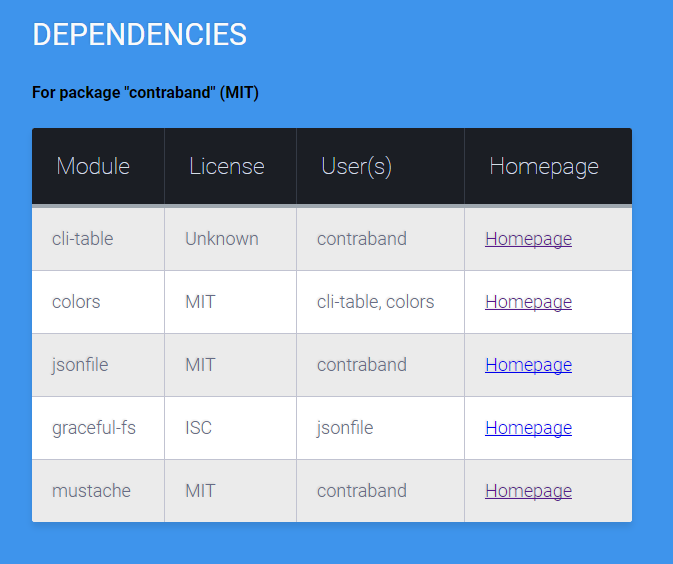
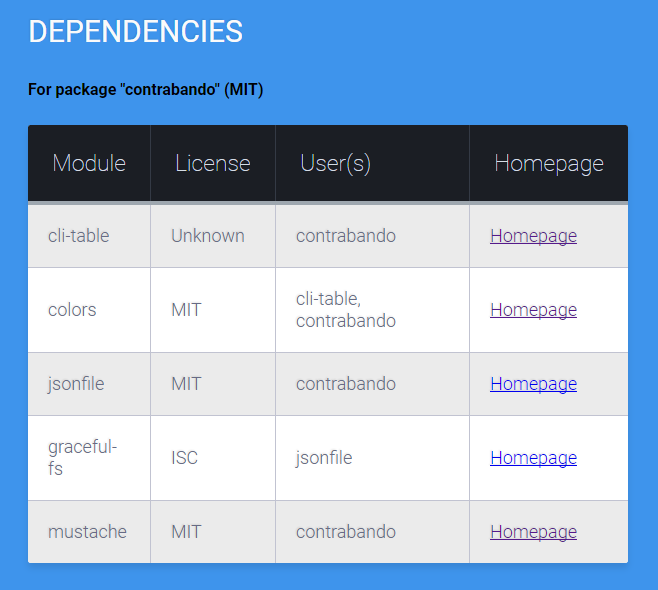
bugfix

diff --git a/licenses.html b/licenses.html
@@ -1,0 +1,175 @@
+<html lang="en">
+   <head>
+      <meta charset="utf-8" />
+      <title>Licenses</title>
+      <meta name="viewport" content="initial-scale=1.0; maximum-scale=1.0; width=device-width;">
+      <style>
+         @import url(https://fonts.googleapis.com/css?family=Roboto:400,500,700,300,100);
+         body {
+         background-color: #3e94ec;
+         font-family: "Roboto", helvetica, arial, sans-serif;
+         font-size: 16px;
+         font-weight: 400;
+         text-rendering: optimizeLegibility;
+         }
+         div.table-title {
+         display: block;
+         margin: auto;
+         max-width: 600px;
+         padding:5px;
+         width: 100%;
+         }
+         .table-title h3 {
+         color: #fafafa;
+         font-size: 30px;
+         font-weight: 400;
+         font-style:normal;
+         font-family: "Roboto", helvetica, arial, sans-serif;
+         text-shadow: -1px -1px 1px rgba(0, 0, 0, 0.1);
+         text-transform:uppercase;
+         }
+         /*** Table Styles **/
+         .table-fill {
+         background: white;
+         border-radius:3px;
+         border-collapse: collapse;
+         height: auto;
+         margin: auto;
+         max-width: 600px;
+         padding:5px;
+         width: 100%;
+         box-shadow: 0 5px 10px rgba(0, 0, 0, 0.1);
+         animation: float 5s infinite;
+         }
+         th {
+         color:#D5DDE5;;
+         background:#1b1e24;
+         border-bottom:4px solid #9ea7af;
+         border-right: 1px solid #343a45;
+         font-size:23px;
+         font-weight: 100;
+         padding:24px;
+         text-align:left;
+         text-shadow: 0 1px 1px rgba(0, 0, 0, 0.1);
+         vertical-align:middle;
+         }
+         th:first-child {
+         border-top-left-radius:3px;
+         }
+         th:last-child {
+         border-top-right-radius:3px;
+         border-right:none;
+         }
+         tr {
+         border-top: 1px solid #C1C3D1;
+         border-bottom-: 1px solid #C1C3D1;
+         color:#666B85;
+         font-size:16px;
+         font-weight:normal;
+         text-shadow: 0 1px 1px rgba(256, 256, 256, 0.1);
+         }
+         tr:hover td {
+         background:#4E5066;
+         color:#FFFFFF;
+         border-top: 1px solid #22262e;
+         border-bottom: 1px solid #22262e;
+         }
+         tr:first-child {
+         border-top:none;
+         }
+         tr:last-child {
+         border-bottom:none;
+         }
+         tr:nth-child(odd) td {
+         background:#EBEBEB;
+         }
+         tr:nth-child(odd):hover td {
+         background:#4E5066;
+         }
+         tr:last-child td:first-child {
+         border-bottom-left-radius:3px;
+         }
+         tr:last-child td:last-child {
+         border-bottom-right-radius:3px;
+         }
+         td {
+         background:#FFFFFF;
+         padding:20px;
+         text-align:left;
+         vertical-align:middle;
+         font-weight:300;
+         font-size:18px;
+         text-shadow: -1px -1px 1px rgba(0, 0, 0, 0.1);
+         border-right: 1px solid #C1C3D1;
+         }
+         td:last-child {
+         border-right: 0px;
+         }
+         th.text-left {
+         text-align: left;
+         }
+         th.text-center {
+         text-align: center;
+         }
+         th.text-right {
+         text-align: right;
+         }
+         td.text-left {
+         text-align: left;
+         }
+         td.text-center {
+         text-align: center;
+         }
+         td.text-right {
+         text-align: right;
+         }
+      </style>
+   </head>
+   <body>
+      <div class="table-title">
+         <h3>Dependencies</h3>
+         <h4>For package "contrabando" (MIT)</h4>
+      </div>
+      <table class="table-fill">
+         <thead>
+            <tr>
+               <th class="text-left">Module</th>
+               <th class="text-left">License</th>
+               <th class="text-left">User(s)</th>
+               <th class="text-left">Homepage</th>
+            </tr>
+         </thead>
+         <tbody class="table-hover">
+            <tr>
+               <td class="text-left">cli-table</td>
+               <td class="text-left">Unknown</td>
+               <td class="text-left">contrabando</td>
+               <td class="text-left"><a href="https:&#x2F;&#x2F;github.com&#x2F;Automattic&#x2F;cli-table" target="_blank">Homepage</a></td>
+            </tr>
+            <tr>
+               <td class="text-left">colors</td>
+               <td class="text-left">MIT</td>
+               <td class="text-left">cli-table, contrabando</td>
+               <td class="text-left"><a href="https:&#x2F;&#x2F;github.com&#x2F;Marak&#x2F;colors.js" target="_blank">Homepage</a></td>
+            </tr>
+            <tr>
+               <td class="text-left">jsonfile</td>
+               <td class="text-left">MIT</td>
+               <td class="text-left">contrabando</td>
+               <td class="text-left"><a href="https:&#x2F;&#x2F;github.com&#x2F;jprichardson&#x2F;node-jsonfile#readme" target="_blank">Homepage</a></td>
+            </tr>
+            <tr>
+               <td class="text-left">graceful-fs</td>
+               <td class="text-left">ISC</td>
+               <td class="text-left">jsonfile</td>
+               <td class="text-left"><a href="https:&#x2F;&#x2F;github.com&#x2F;isaacs&#x2F;node-graceful-fs#readme" target="_blank">Homepage</a></td>
+            </tr>
+            <tr>
+               <td class="text-left">mustache</td>
+               <td class="text-left">MIT</td>
+               <td class="text-left">contrabando</td>
+               <td class="text-left"><a href="https:&#x2F;&#x2F;github.com&#x2F;janl&#x2F;mustache.js" target="_blank">Homepage</a></td>
+            </tr>
+         </tbody>
+      </table>
+   </body>

diff --git a/README.md b/README.md
@@ -15,24 +15,24 @@ Navigate to your modules entry directory (location of `package.json`) and run
 ```
 $ contrabando
 ```
-
+Note that it's only the `dependencies` entries that are scanned, not peer/dev/optional/bundled dependencies.
 ### Example
 ##### Terminal output
 ```
-> Scanning module 'contraband'...
-┌─────────────┬───────────────────┬─────────┐
-│ Module      │ User(s)           │ License │
-├─────────────┼───────────────────┼─────────┤
-│ cli-table   │ contraband        │ Unknown │
-├─────────────┼───────────────────┼─────────┤
-│ colors      │ cli-table, colors │ MIT     │
-├─────────────┼───────────────────┼─────────┤
-│ jsonfile    │ contraband        │ MIT     │
-├─────────────┼───────────────────┼─────────┤
-│ graceful-fs │ jsonfile          │ ISC     │
-├─────────────┼───────────────────┼─────────┤
-│ mustache    │ contraband        │ MIT     │
-└─────────────┴───────────────────┴─────────┘
+> Scanning module 'contrabando'...
+┌─────────────┬────────────────────────┬─────────┐
+│ Module      │ User(s)                │ License │
+├─────────────┼────────────────────────┼─────────┤
+│ cli-table   │ contrabando            │ Unknown │
+├─────────────┼────────────────────────┼─────────┤
+│ colors      │ cli-table, contrabando │ MIT     │
+├─────────────┼────────────────────────┼─────────┤
+│ jsonfile    │ contrabando            │ MIT     │
+├─────────────┼────────────────────────┼─────────┤
+│ graceful-fs │ jsonfile               │ ISC     │
+├─────────────┼────────────────────────┼─────────┤
+│ mustache    │ contrabando            │ MIT     │
+└─────────────┴────────────────────────┴─────────┘
 Done! Output saved as .\licenses.html
 ```
 ##### Html Output
